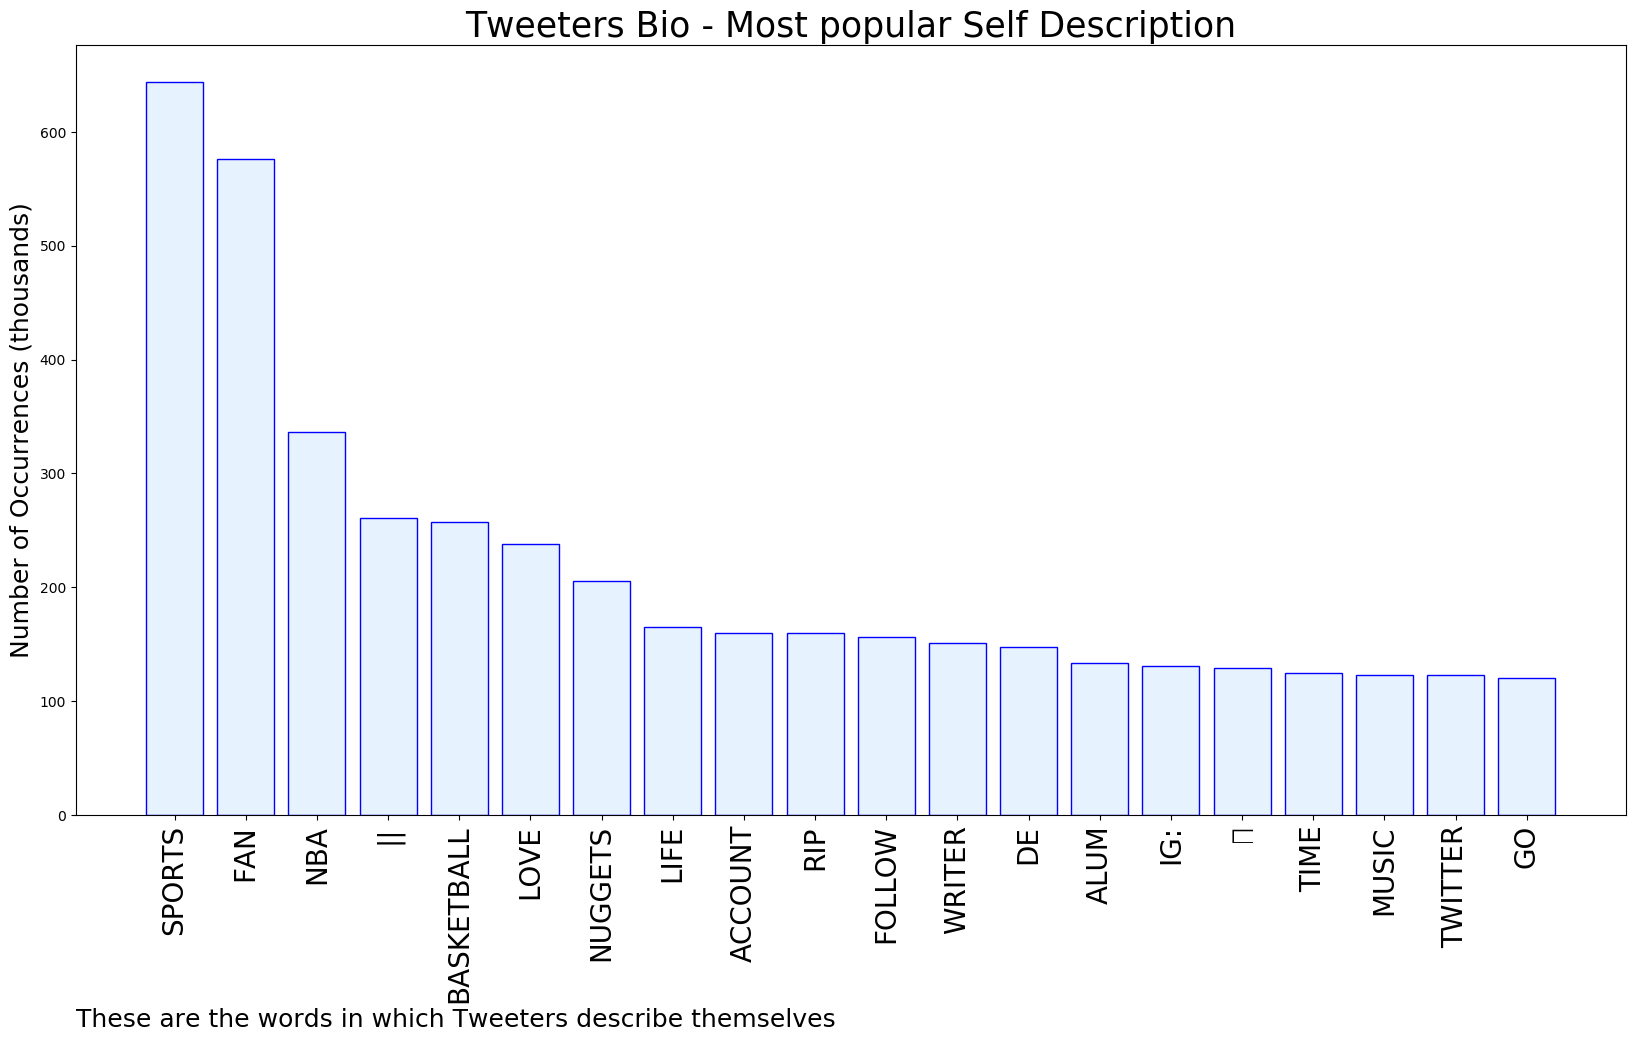
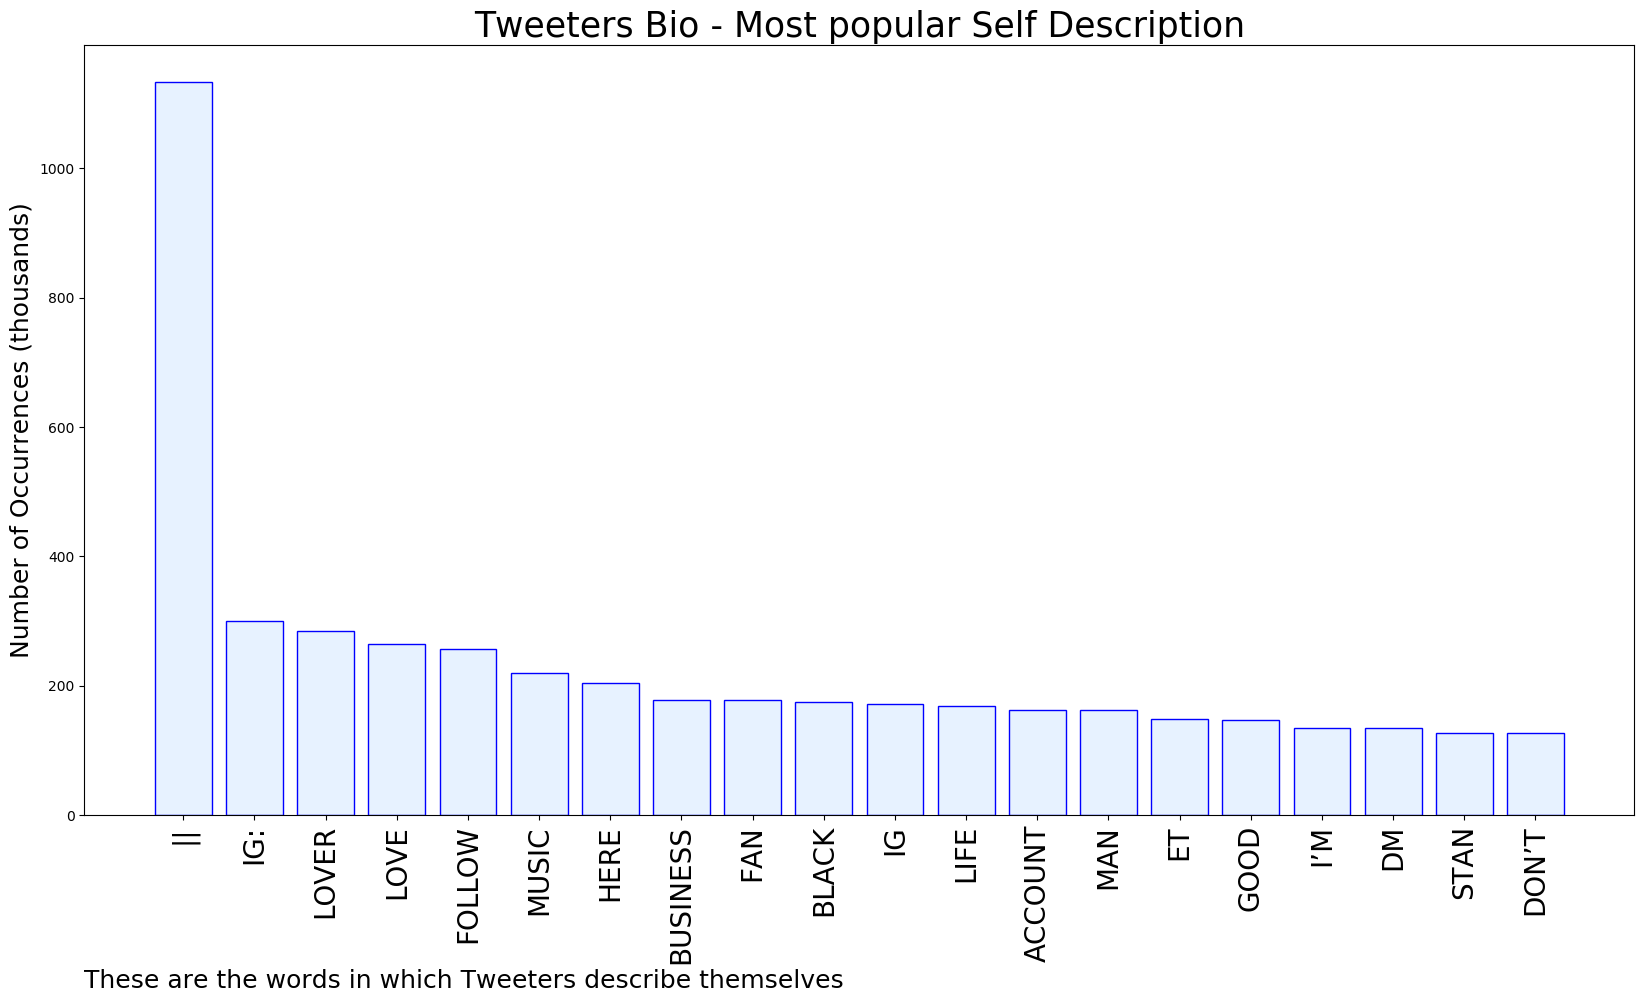
Updating with latest report

diff --git a/README.md b/README.md
@@ -1,5 +1,5 @@
 # MURCHIE85 TWITTER PROCESSING 
-&#x1F34E; **TOPIC = "Jokic"**
+&#x1F34E; **TOPIC = "#BussItChallenge"**
 
 ## AUTOMATED RESEARCH SUMMARY
 
@@ -15,22 +15,22 @@
 
 |                **Sample-Tweets**        |
 | :-------------: |
-| RT @statmuse: What a battle.Luka: 38/9/13, 9 PTS in OTJokic: 38/11/4, 17 PTS in 4QBoth of them are leading their respective teams in… |
-| Jokic should be an MVP man. He's clearly the most valuable player on the respective teams right now. |
-| RT @WorldWideWob: Splash. Jokic at the buzzer to force OT. https://t.co/zYg27WKQN2 |
+| *cries in no ass*  #BussItChallenge https://t.co/uhfq0g1mi5 |
+| RT @Heurak: You won't find a better #bussltchallenge than this one.#BussItChallenge🔥🔥🔥 https://t.co/4NRXoep0tx |
+| Gonna do this  #BussItChallenge |
 
-The most popular user is: **natasa_jokic**
-<div class="alert alert-block alert-danger"> RT @theanthonydavis: CAUGHT ON VIDEO: The moment Police allow rioters to storm the US Capitol. #Washington #CapitolHill #DC #DCProtests htt…</div>
+The most popular user is: **MaiaPerk**
+<div class="alert alert-block alert-danger"> RT @brownsugaabb: Watching black women partake in the #BussItChallenge https://t.co/Mqn1Xnqr1f</div>
 
 ## RELATED METRICS<br>
 | Metric | Value |
 | ------------- | ------------- |
-| #1 Most tweeted to  | **NBA** |
-| #2 Most tweeted to  | **BleacherReport** |
-| #3 Most tweeted to  | **dallasmavs** |
-| NewProfiles (less than 10 days) | 0.92%  |
-| Tweeters with < 10 followers  | 3.11%|
-| Tweeters with > 1000000 followers  | 0.1%  |
+| #1 Most tweeted to  | **brownsugaabb** |
+| #2 Most tweeted to  | **Heurak** |
+| #3 Most tweeted to  | **_UnusualH** |
+| NewProfiles (less than 10 days) | 0.44%  |
+| Tweeters with < 10 followers  | 1.48%|
+| Tweeters with > 1000000 followers  | 0.0%  |
 
 
 
@@ -39,11 +39,11 @@ The most popular user is: **natasa_jokic**
 
 | Popularity Rank  | Term |
 | ------------- | ------------- |
-| first  | **JOKIC**  |
-| second  | **OT**  |
-| third  | **PTS** |
-| fourth  | **SENDS**  |
-| fifth  | **NIKOLA**  |
+| first  | **BUSSITCHALLENGE**  |
+| second  | **WATCHING**  |
+| third  | **WOMEN** |
+| fourth  | **BLACK**  |
+| fifth  | **BUSSLTCHALLENGE**  |
 
 
 ## Twitter Bio Analysis![image](BIO.png)
@@ -54,13 +54,13 @@ VIEWS WERE : **SUBJECTIVE**  (20.0%) & **NEGATIVELY-SUBJECTIVE** (13.33%) **OBJE
 ### TWEET SAMPLE 
 | Random value picked from array |
 | ------------- |
-|RT @TheNBACentral: JOKIC SENDS IT TO OT https://t.co/2cKTVattWT |
+|RT @zee_chat: Here you go guys, can you tell I was so nervous ☺🥺 #BussItChallenge https://t.co/dOw0sVYVam |
 
 ### MOST RETWEETED 
 
-| The most retweeted user is: **natasa_jokic**  |
+| The most retweeted user is: **MaiaPerk**  |
 | ------------- |
-| RT @theanthonydavis: CAUGHT ON VIDEO: The moment Police allow rioters to storm the US Capitol. #Washington #CapitolHill #DC #DCProtests htt… |
+| RT @brownsugaabb: Watching black women partake in the #BussItChallenge https://t.co/Mqn1Xnqr1f |
 
 ### CONCLUSION & EXTERNAL ANALYSIS
 
